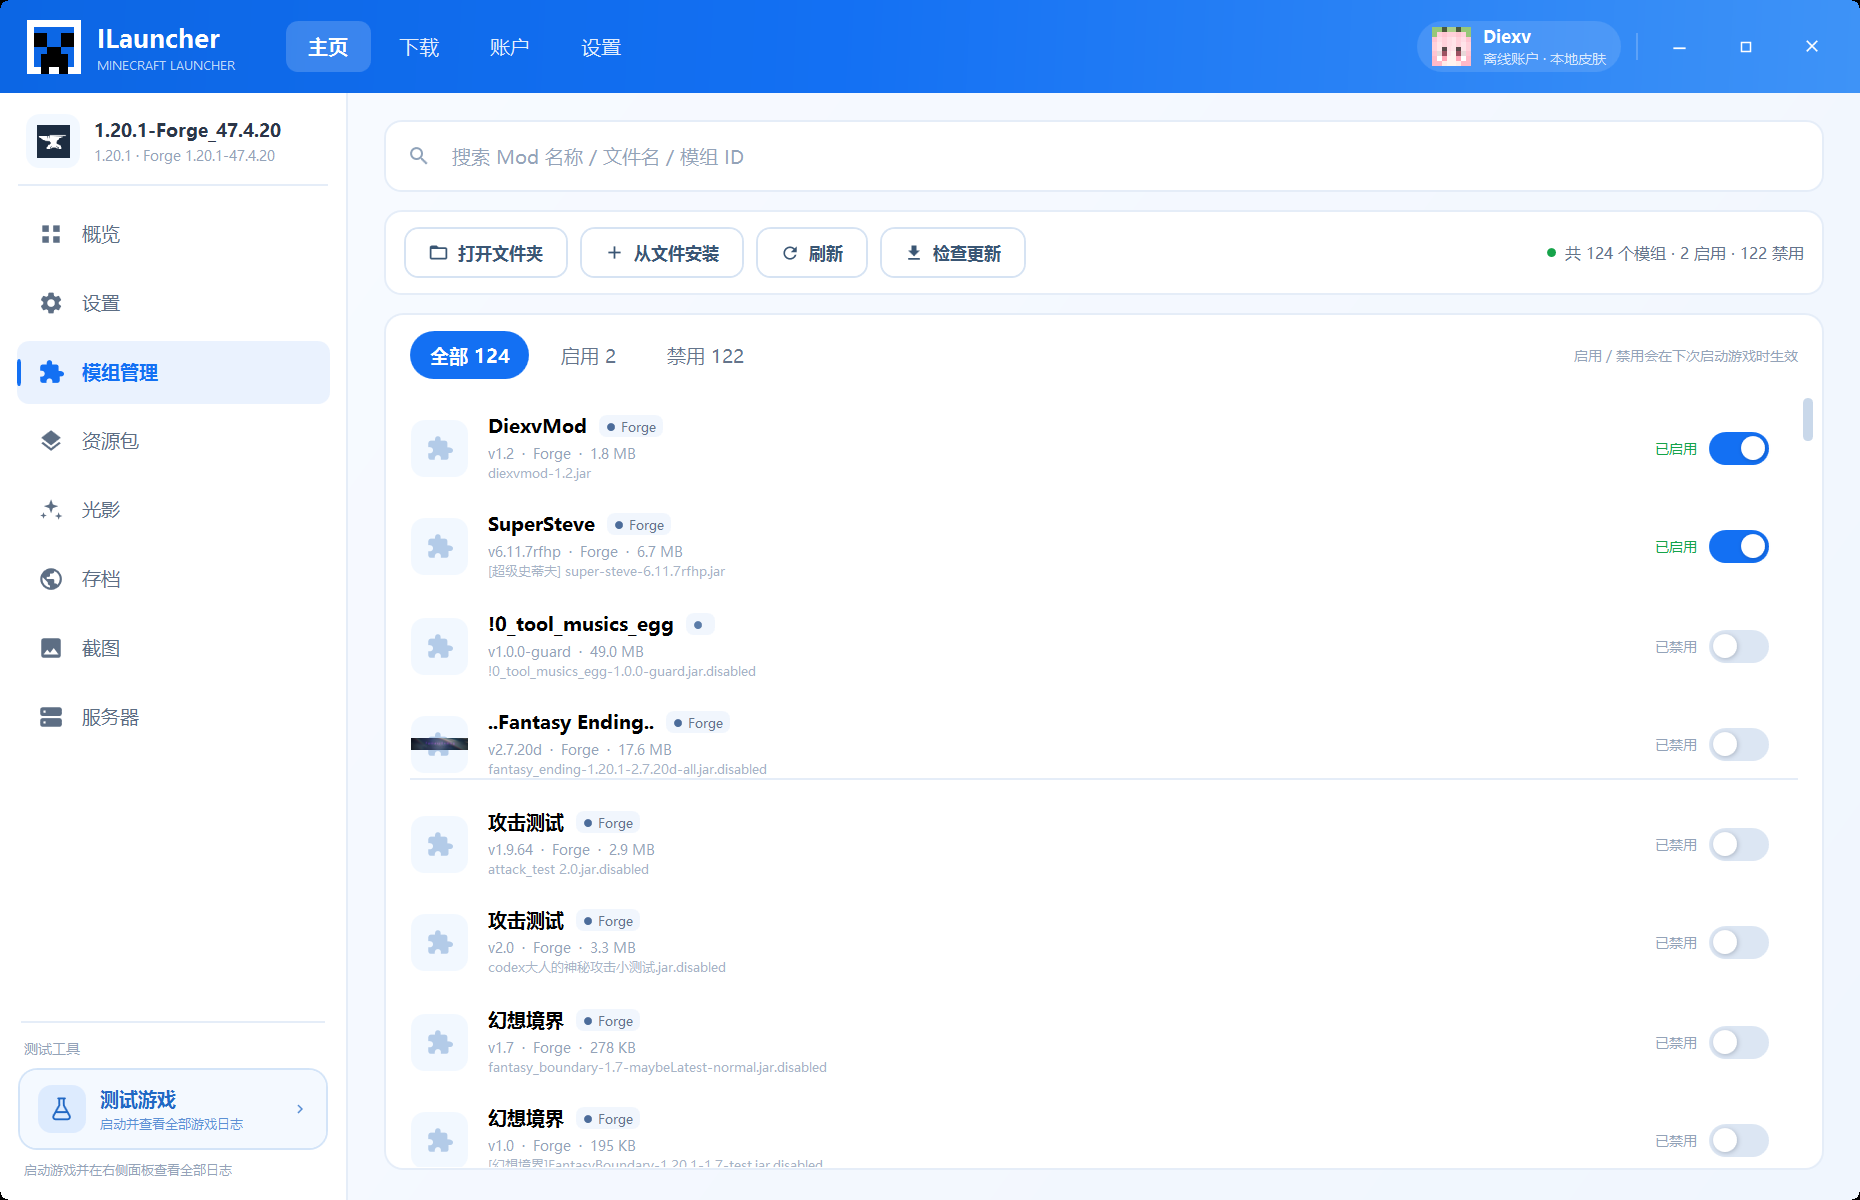
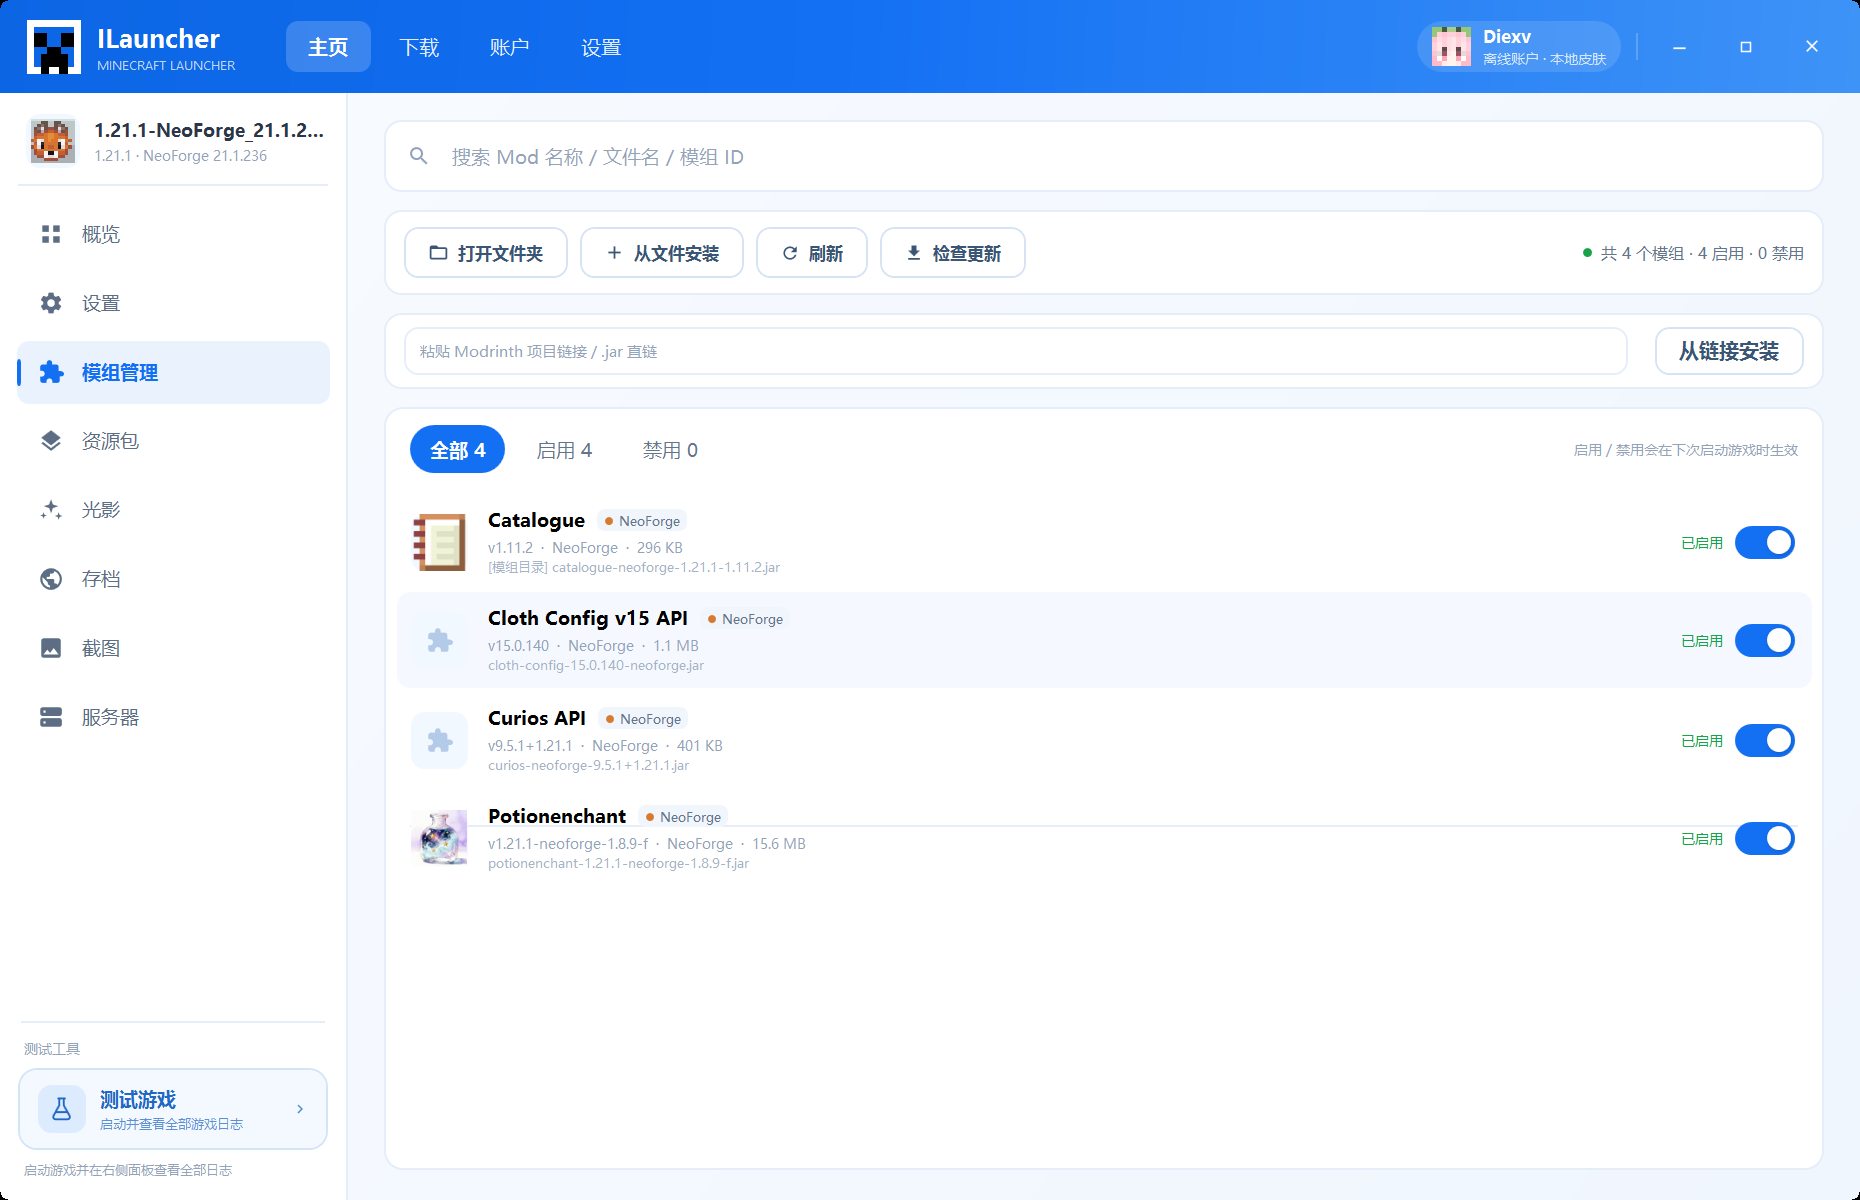
Add mod installation from Modrinth or direct jar links

diff --git a/src/ILauncher/Views/ModsView.xaml b/src/ILauncher/Views/ModsView.xaml
@@ -70,6 +70,7 @@
         <Grid.RowDefinitions>
             <RowDefinition Height="Auto" />
             <RowDefinition Height="Auto" />
+            <RowDefinition Height="Auto" />
             <RowDefinition Height="*" />
         </Grid.RowDefinitions>
 
@@ -124,8 +125,35 @@
             </Grid>
         </Border>
 
+        <!-- Link install -->
+        <Border Grid.Row="2" Style="{StaticResource Card}" Margin="0,0,0,12" Padding="12,8" CornerRadius="11">
+            <Grid>
+                <Grid.ColumnDefinitions>
+                    <ColumnDefinition Width="*" />
+                    <ColumnDefinition Width="Auto" />
+                </Grid.ColumnDefinitions>
+                <Grid Height="32">
+                    <TextBox Style="{StaticResource InputTextBox}" Height="32" Padding="10,0"
+                             VerticalContentAlignment="Center"
+                             Text="{Binding LinkUrl, UpdateSourceTrigger=PropertyChanged}"
+                             AutomationProperties.Name="模组下载链接" />
+                    <TextBlock Text="粘贴 Modrinth 项目链接 / .jar 直链"
+                               FontSize="10" Foreground="{StaticResource BrushTextMuted}"
+                               Margin="11,0,0,0" VerticalAlignment="Center" IsHitTestVisible="False"
+                               Visibility="{Binding LinkUrl, Converter={StaticResource EmptyToVisibility}}" />
+                </Grid>
+                <StackPanel Grid.Column="1" Orientation="Horizontal" VerticalAlignment="Center" Margin="8,0,0,0">
+                    <TextBlock Text="{Binding LinkInstallStatus}" FontSize="9"
+                               Foreground="{StaticResource BrushTextMuted}" Margin="0,0,10,0"
+                               VerticalAlignment="Center" />
+                    <Button Style="{StaticResource SecondaryButton}" Height="32" MinWidth="88"
+                            Command="{Binding InstallFromLinkCommand}" Content="从链接安装" />
+                </StackPanel>
+            </Grid>
+        </Border>
+
         <!-- List -->
-        <Border Grid.Row="2" Style="{StaticResource Card}" Padding="0" CornerRadius="12">
+        <Border Grid.Row="3" Style="{StaticResource Card}" Padding="0" CornerRadius="12">
             <Grid>
                 <Grid.RowDefinitions>
                     <RowDefinition Height="Auto" />
@@ -247,4 +275,5 @@
         </Border>
     </Grid>
 </UserControl>
+
 

diff --git a/src/ILauncher/ViewModels/ModsViewModel.cs b/src/ILauncher/ViewModels/ModsViewModel.cs
@@ -114,6 +114,9 @@ public sealed class ModsViewModel : ObservableObject
     private string _activeFilter = "all";
     private bool _isLoading;
     private bool _isCheckingUpdates;
+    private bool _isLinkInstalling;
+    private string _linkUrl = "";
+    private string _linkInstallStatus = "";
     private int _enabledCount;
     private int _disabledCount;
     private Task _loadTask = Task.CompletedTask;
@@ -152,6 +155,7 @@ public sealed class ModsViewModel : ObservableObject
         });
         OpenFolderCommand = new RelayCommand(OpenFolder, () => _instance != null);
         InstallCommand = new RelayCommand(Install, () => _instance != null);
+        InstallFromLinkCommand = new AsyncRelayCommand(InstallFromLinkAsync, () => _instance != null && !IsLinkInstalling);
         SetFilterCommand = new RelayCommand(SetFilter);
         CheckUpdatesCommand = new AsyncRelayCommand(CheckUpdatesAsync, () => _instance != null && !IsCheckingUpdates);
         UpdateModCommand = new AsyncRelayCommand(async parameter =>
@@ -176,6 +180,7 @@ public sealed class ModsViewModel : ObservableObject
     public AsyncRelayCommand ToggleCommand { get; }
     public RelayCommand OpenFolderCommand { get; }
     public RelayCommand InstallCommand { get; }
+    public AsyncRelayCommand InstallFromLinkCommand { get; }
     public RelayCommand SetFilterCommand { get; }
     public AsyncRelayCommand CheckUpdatesCommand { get; }
     public AsyncRelayCommand UpdateModCommand { get; }
@@ -191,6 +196,30 @@ public sealed class ModsViewModel : ObservableObject
                 OnPropertyChanged(nameof(CheckUpdatesText));
             }
         }
+    }
+
+    public bool IsLinkInstalling
+    {
+        get => _isLinkInstalling;
+        private set
+        {
+            if (SetProperty(ref _isLinkInstalling, value))
+            {
+                InstallFromLinkCommand.RaiseCanExecuteChanged();
+            }
+        }
+    }
+
+    public string LinkUrl
+    {
+        get => _linkUrl;
+        set => SetProperty(ref _linkUrl, value);
+    }
+
+    public string LinkInstallStatus
+    {
+        get => _linkInstallStatus;
+        private set => SetProperty(ref _linkInstallStatus, value);
     }
 
     public string CheckUpdatesText => IsCheckingUpdates ? "正在检查更新…" : "检查更新";
@@ -256,6 +285,7 @@ public sealed class ModsViewModel : ObservableObject
         RefreshCommand.RaiseCanExecuteChanged();
         OpenFolderCommand.RaiseCanExecuteChanged();
         InstallCommand.RaiseCanExecuteChanged();
+        InstallFromLinkCommand.RaiseCanExecuteChanged();
         CheckUpdatesCommand.RaiseCanExecuteChanged();
         _ = LoadAsync();
     }
@@ -553,6 +583,80 @@ public sealed class ModsViewModel : ObservableObject
         catch (Exception ex)
         {
             _toast($"无法打开文件夹：{ex.Message}", true);
+        }
+    }
+
+    private async Task InstallFromLinkAsync()
+    {
+        if (_instance == null)
+        {
+            return;
+        }
+
+        if (!Uri.TryCreate(LinkUrl.Trim(), UriKind.Absolute, out var uri) ||
+            (uri.Scheme != Uri.UriSchemeHttp && uri.Scheme != Uri.UriSchemeHttps))
+        {
+            _toast("请输入有效的 http/https 链接。", true);
+            return;
+        }
+
+        IsLinkInstalling = true;
+        LinkInstallStatus = "正在解析链接…";
+        try
+        {
+            if (uri.Host.Contains("modrinth.com", StringComparison.OrdinalIgnoreCase))
+            {
+                var segments = uri.AbsolutePath.Split('/', StringSplitOptions.RemoveEmptyEntries);
+                var marker = Array.FindIndex(segments, part => part is "mod" or "project");
+                var slug = marker >= 0 && marker + 1 < segments.Length ? segments[marker + 1] : null;
+                if (string.IsNullOrWhiteSpace(slug))
+                {
+                    throw new InvalidOperationException("无法从 Modrinth 链接中识别项目。");
+                }
+
+                var project = await _modrinth.GetProjectAsync(slug)
+                              ?? throw new InvalidOperationException("Modrinth 项目不存在或无法访问。");
+                var file = await _modrinth.InstallAsync(project, _instance.ModsDirectory,
+                    _instance.MinecraftVersion, LoaderKey(_instance.Loader), null, CancellationToken.None);
+                _toast($"已从链接安装 {Path.GetFileName(file)}。", false);
+            }
+            else if (uri.AbsolutePath.EndsWith(".jar", StringComparison.OrdinalIgnoreCase))
+            {
+                var fileName = Path.GetFileName(Uri.UnescapeDataString(uri.AbsolutePath));
+                if (string.IsNullOrWhiteSpace(fileName))
+                {
+                    fileName = "mod.jar";
+                }
+
+                Directory.CreateDirectory(_instance.ModsDirectory);
+                var target = Path.Combine(_instance.ModsDirectory, fileName);
+                if (File.Exists(target))
+                {
+                    target = Path.Combine(_instance.ModsDirectory,
+                        Path.GetFileNameWithoutExtension(fileName) + "-" + DateTime.Now.ToString("HHmmss") + ".jar");
+                }
+
+                LinkInstallStatus = $"正在下载 {fileName}…";
+                await DownloadHelper.DownloadFileAsync(uri.AbsoluteUri, target, null, CancellationToken.None);
+                _toast($"已从链接安装 {Path.GetFileName(target)}。", false);
+            }
+            else
+            {
+                throw new InvalidOperationException(
+                    "CurseForge 项目页需要 API Key；请在浏览器打开项目页下载 .jar 后使用「从文件安装」，或粘贴文件直链。");
+            }
+
+            LinkUrl = "";
+            await LoadAsync();
+        }
+        catch (Exception ex)
+        {
+            LinkInstallStatus = $"安装失败：{ex.Message}";
+            _toast($"链接安装失败：{ex.Message}", true);
+        }
+        finally
+        {
+            IsLinkInstalling = false;
         }
     }
 

diff --git a/src/ILauncher.Core/Services/ModrinthService.cs b/src/ILauncher.Core/Services/ModrinthService.cs
@@ -120,6 +120,32 @@ public sealed class ModrinthService
         return new ModrinthSearchResult(result, Math.Max(totalHits, result.Count), offset, limit);
     }
 
+    public async Task<ModrinthProject?> GetProjectAsync(string idOrSlug,
+        CancellationToken cancellationToken = default)
+    {
+        var json = await DownloadHelper.GetStringAsync(
+            $"{BaseUrl}/project/{Uri.EscapeDataString(idOrSlug)}", cancellationToken);
+        using var document = JsonDocument.Parse(json);
+        var root = document.RootElement;
+        var id = root.TryGetProperty("id", out var idElement) ? idElement.GetString() : null;
+        if (string.IsNullOrWhiteSpace(id))
+        {
+            return null;
+        }
+
+        return new ModrinthProject(
+            id,
+            root.TryGetProperty("slug", out var slug) ? slug.GetString() ?? "" : "",
+            root.TryGetProperty("title", out var title) ? title.GetString() ?? "" : "",
+            root.TryGetProperty("description", out var description) ? description.GetString() ?? "" : "",
+            root.TryGetProperty("icon_url", out var icon) ? icon.GetString() : null,
+            root.TryGetProperty("downloads", out var downloads) && downloads.TryGetInt64(out var count) ? count : 0,
+            root.TryGetProperty("project_type", out var type) ? type.GetString() ?? "mod" : "mod",
+            root.TryGetProperty("categories", out var categories) && categories.ValueKind == JsonValueKind.Array
+                ? categories.EnumerateArray().Select(item => item.GetString() ?? "").Where(item => item.Length > 0).ToList()
+                : new List<string>());
+    }
+
     public async Task<List<ModrinthVersion>> GetVersionsAsync(string projectId, string? gameVersion,
         string? loader, CancellationToken cancellationToken = default)
     {

diff --git a/README.md b/README.md
@@ -137,7 +137,8 @@ $env:MS_CLIENT_ID = "你的 Azure Application (client) ID"
 - 读取 `mods/*.jar` 与 `*.jar.disabled`，当前实测 124 个模组、2 个启用。
 - 从 `fabric.mod.json`、`quilt.mod.json`、`META-INF/mods.toml`、`MANIFEST.MF` 读取显示名、版本、模组 ID 和图标。
 - 启用/禁用通过重命名 `.jar` ↔ `.jar.disabled` 完成，下次启动生效。
-- 搜索、全部/启用/禁用筛选、从文件安装、打开目录、刷新。
+- 搜索、全部/启用/禁用筛选、从文件安装、从链接安装、打开目录、刷新。
+- **从链接安装**：粘贴 Modrinth 项目链接会自动解析并下载当前版本兼容文件；也支持 `.jar` 直链。CurseForge 项目页仍需要 API Key，建议浏览器下载后使用「从文件安装」。
 - 「检查更新」通过 Modrinth 的 SHA-1 文件查询找到项目，再按当前 MC 版本/加载器找最新版本；行内「更新」下载新文件并禁用旧文件。
 
 ### 独立「测试游戏」按钮（HMCL 式）
@@ -282,6 +283,8 @@ docs/screenshots/            README 截图
 - 模组安装不会自动解析并安装前置依赖；只安装主文件。
 - Forge/NeoForge 走官方安装器，不保证所有版本都能在无界面模式下成功。
 - 启动器自身更新、主题/语言切换等非 Minecraft 功能未实现。
+
+
 
 
 
